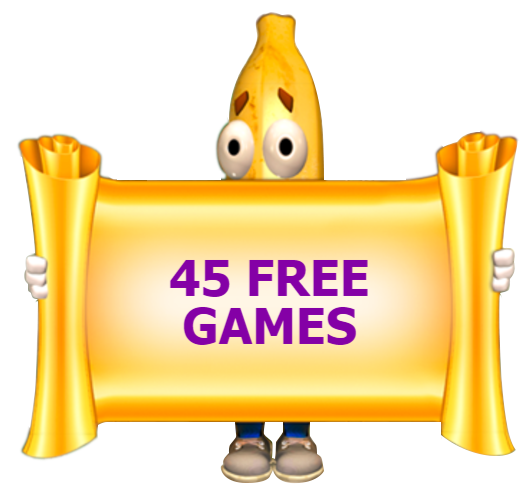
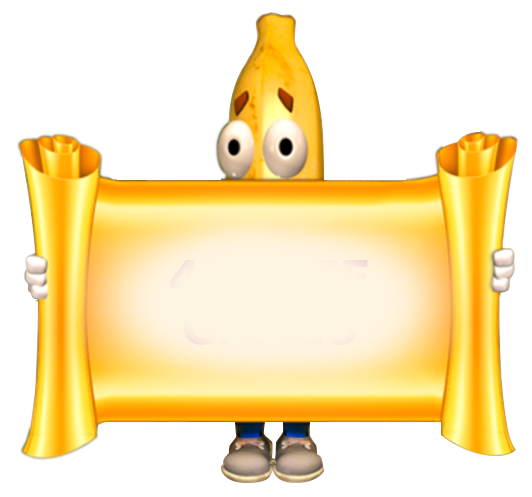
bananas gamble

Changed region(s): [[0.2707, 0.3924, 0.812, 0.7847]]

diff --git a/resources/assets/sass/divslot/games/bananas.scss b/resources/assets/sass/divslot/games/bananas.scss
@@ -33,5 +33,19 @@
     background: url('../img/games/bananas/header.png');
 }
 .gamble {
+    width: 1273px;
     background: url('../img/games/bananas/gamble/gamble_bg.png');
+}
+.alert .content {
+    font-size: 44px;
+    color: #8400a6;
+    font-weight: 600;
+    text-align: center;
+    text-transform: uppercase;
+    display: flex;
+    justify-content: center;
+    align-items: center;
+    box-sizing: border-box;
+    padding: 200px 120px 100px 120px;
+
 }

diff --git a/public/js/bananas_settings.js b/public/js/bananas_settings.js
@@ -30,7 +30,7 @@ var settings = {
         {"image": "1.png"},
         {"image": "2.png"},
         {"image": "3.png"},
-        {"image": "4.png"},
+        {"image": "4.png", "isScatter": true},
         {"image": "5.png"},
         {"image": "6.png"},
         {"image": "7.png"},

diff --git a/app/Game/Traits/Helper.php b/app/Game/Traits/Helper.php
@@ -80,14 +80,16 @@ trait Helper {
     protected function fillSymbols() {
         $this->randomSymbols = [];
 
-        for ($i = 1; $i < $this->symbolsAmount; $i++) {
+        for ($i = 0; $i < $this->symbolsAmount; $i++) {
             for($j = 0; $j < 15; $j++) {
-                $this->randomSymbols[] = $i;
+                if ($j !== $this->scatter) {
+                    $this->randomSymbols[] = $i;
+                }
             }
         }
-        // scatter
-        for($j = 0; $j < 15; $j++) {
-            $this->randomSymbols[] = 0;
+
+        for($j = 0; $j < 5; $j++) {
+            $this->randomSymbols[] = $this->scatter;
         }
     }
 }

diff --git a/app/Game/Traits/WinChecker.php b/app/Game/Traits/WinChecker.php
@@ -132,9 +132,15 @@ trait WinChecker {
                 }
             }
 
+            // Scatter has its own checker
+            if ($currSymbol === $this->scatter) {
+                break;
+            }
+
             foreach ($line as $symMapIndex => $symMap) {
+
                 // Skipping first symbol as it is known
-                if ($symMapIndex == 0) {
+                if ($symMapIndex === 0) {
                     if ($this->finalSymbols[ $line[0][0] ][ $line[0][1] ] === $this->joker) {
                         $isJoker = true;
                     }

diff --git a/app/Game/Games/Bananas.php b/app/Game/Games/Bananas.php
@@ -6,8 +6,8 @@ use App\Game\Games\Game;
 
 class Bananas extends Game {
     public static $reelsAmount = 5;
-    public static $scatter = 1;
-    public static $joker = 1;
+    public static $scatter = 4;
+    public static $joker = 3;
     public static $freeSpinsAmount = 45;
     public static $symbolsAmount = 13;
     public static $paytable = [
